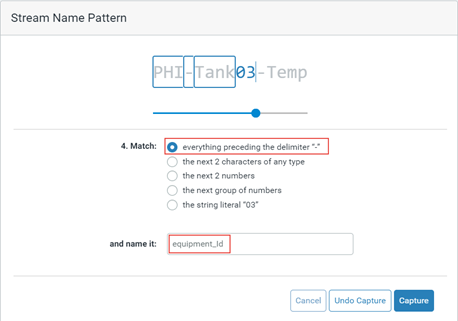
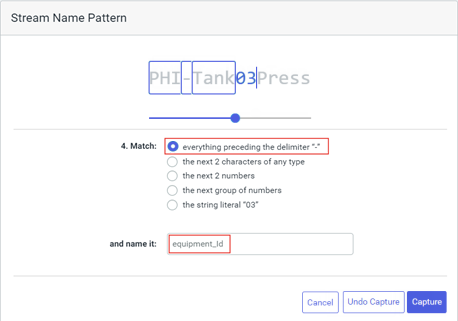
Added graphic back

diff --git a/content/add-organize-data/organize-data/assets/second-rule.md b/content/add-organize-data/organize-data/assets/second-rule.md
@@ -21,6 +21,8 @@ Therefore, you must create a second asset rule, called Tank Rule B, to identify 
 
 **Note:** Use the same names for all of the tokens in both rules. This naming patern makes it easier to manage the rules and troubleshoot any problems that may occur.
 
+![](images/second-rule-token.png)
+
 Set up the mappings and configure the asset as described in [Create an asset rule](xref:CreateAssetRules).
 
 **Note:** The **Id** and **Name** for both rules must resolve to the same values to achieve the intended result, that is one asset that references both streams. If the Ids are different, then two assets with the name `Philadelphia 03` are created, one that references the `Pressure` stream and the other that references the `Temperature` stream.
